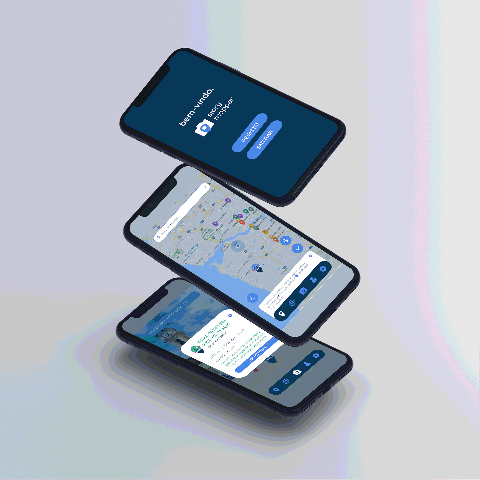
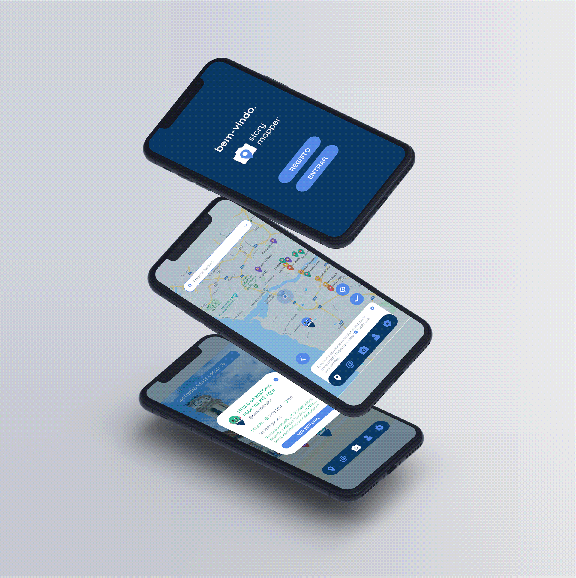
Optimizing images v2

diff --git a/work/index.html b/work/index.html
@@ -189,7 +189,7 @@
 					<div class="card-container">
 						<a href="https://alexandramendes.com/work/The_Raven/">
 							<img
-								src="https://alexandramendes.com/assets/images/projects/the_raven.jpg"
+								src="https://alexandramendes.com/assets/images/projects/the_raven_thumb.jpg"
 								alt="The Raven thumbnail"
 								class="card-img"
 							/>
